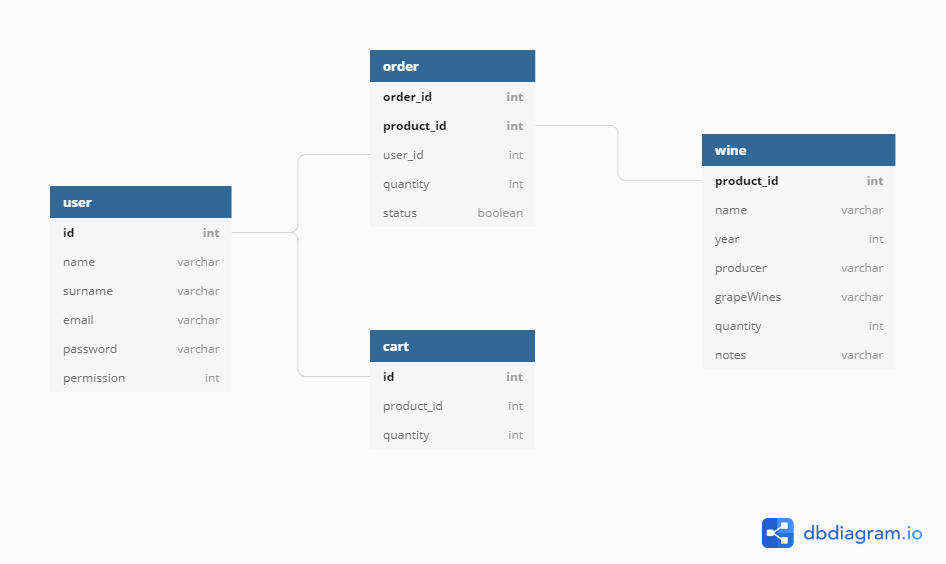
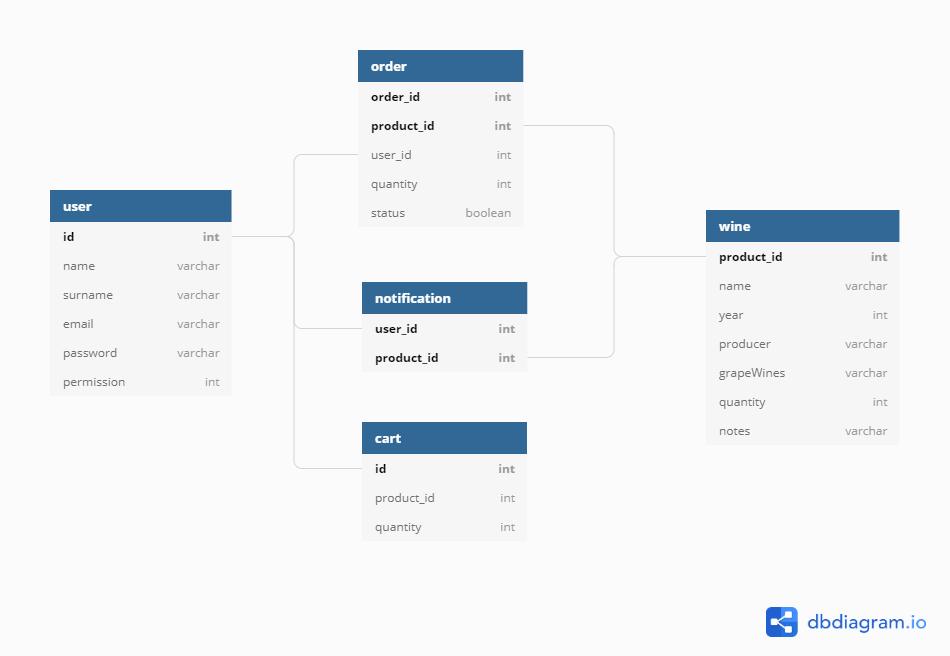
added login, updated db structure (supports notifications)

diff --git a/src/ServerThread.java b/src/ServerThread.java
@@ -1,14 +1,18 @@
-import java.io.BufferedReader;
 import java.io.IOException;
+import java.io.InputStream;
 import java.net.Socket;
-import java.io.InputStreamReader;
-import java.io.PrintWriter;
+import java.io.ObjectInputStream;
+import java.io.ObjectOutputStream;
+import java.io.OutputStream;
 
 import java.sql.Connection;
 import java.sql.DriverManager;
 import java.sql.PreparedStatement;
 import java.sql.ResultSet;
+import java.sql.SQLException;
+
 import java.util.ArrayList;
+
 public class ServerThread extends Thread {
 	private Socket socket;
 
@@ -19,33 +23,34 @@ public class ServerThread extends Thread {
 	public void run() {
 
 		try {
-			String message = null;
-			BufferedReader bufferReader = new BufferedReader(new InputStreamReader(socket.getInputStream()));
-			//reads from client input
-			while ((message = bufferReader.readLine()) != null) {
-				for(Object[] b : execQuery("SELECT * FROM assignment3.user", "id", "name", "surname")){
-					System.out.println("[");
-					for(Object c : b){
-						System.out.print((String) c);
-					}
-					System.out.println("]");
+			InputStream inputStream = this.socket.getInputStream();
+			ObjectInputStream in = new ObjectInputStream(inputStream);
+			try {
+				String[] message = (String[]) in.readObject();
+				OutputStream outputStream = this.socket.getOutputStream();
+				ObjectOutputStream out = new ObjectOutputStream(outputStream);
+				// stuff happens here!
+				switch (message[0]) {
+					case "login":
+					Boolean login_result = login(message[1], message[2]);
+					out.writeObject(login_result);
+						break;
+
+					default:
+						break;
 				}
-				//server -> client
-				PrintWriter printWriter = new PrintWriter(socket.getOutputStream(), true);
-				System.out.println(message);
-				printWriter.println("server received: " + message);
+			} catch (ClassNotFoundException e) {
+				e.printStackTrace();
 			}
-			socket.close();
 		} catch (IOException e) {
 			e.printStackTrace();
 		}
-
 	}
 
-	public static Connection getConnection(){
-		
-		try{
-			//username and password are in clear, who cares tbh, just for testing purposes
+	public static Connection getConnection() {
+
+		try {
+			// username and password are in clear, who cares tbh, just for testing purposes
 			String driver = "com.mysql.cj.jdbc.Driver";
 			String url = "jdbc:mysql://localhost:3306/assignment3";
 			String username = "root";
@@ -53,13 +58,36 @@ public class ServerThread extends Thread {
 			Class.forName(driver);
 
 			Connection connection = DriverManager.getConnection(url, username, password);
-			System.out.println("database connected!");
 			return connection;
-		} catch(Exception e){
+		} catch (Exception e) {
 			e.printStackTrace();
 		}
 		return null;
-	}	
+	}
+
+	public static Boolean login(String username, String password) {
+		Connection connection = getConnection();
+		String query = String.format("SELECT email, password FROM user WHERE email='%s'", username);
+		try {
+			PreparedStatement statement = connection.prepareStatement(query);
+			ResultSet query_result = statement.executeQuery();
+
+			if(!query_result.next()){
+				return false;
+			} else {
+				String pwd = query_result.getString("password");
+				
+				if (password.equals(pwd)){
+					return true;
+				} else {
+					return false;
+				}
+			}
+		} catch (SQLException e) {
+			e.printStackTrace();
+		}
+		return null;
+	}
 
 	public static ArrayList<Object[]> execQuery(String query, String... fields) {
 		try {
@@ -68,22 +96,27 @@ public class ServerThread extends Thread {
 			PreparedStatement statement = connection.prepareStatement(query);
 			ResultSet query_result = statement.executeQuery();
 
-			ArrayList<Object> tmp = new ArrayList<Object>();
 			ArrayList<Object[]> result = new ArrayList<Object[]>();
-			/* 
-			checks every element of result, inserts it in tmp,
-			tmp gets converted to an array of strings and then cleared,
 
-			*/
-			while (query_result.next()){
-				for (String field : fields){
-					tmp.add(query_result.getString(field));
+			if(fields.length > 0){
+				ArrayList<Object> tmp = new ArrayList<Object>();
+				/* 
+				checks every element of result, inserts it in tmp,
+				tmp gets converted to an array of strings and then cleared,
+	
+				*/
+				while (query_result.next()){
+					for (String field : fields){
+						tmp.add(query_result.getString(field));
+					}
+					Object[] tuple_array = tmp.toArray();
+					result.add(tuple_array);
+					tmp.clear();
 				}
-				Object[] tuple_array = tmp.toArray();
-				result.add(tuple_array);
-				tmp.clear();
+				return result;
+			} else {
+
 			}
-			return result;
 
 		} catch (Exception e){
 			e.printStackTrace();
